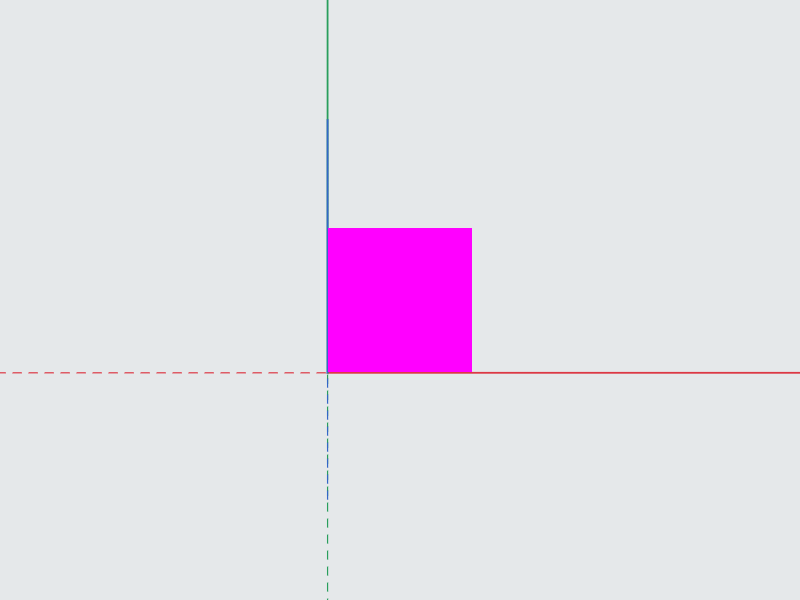
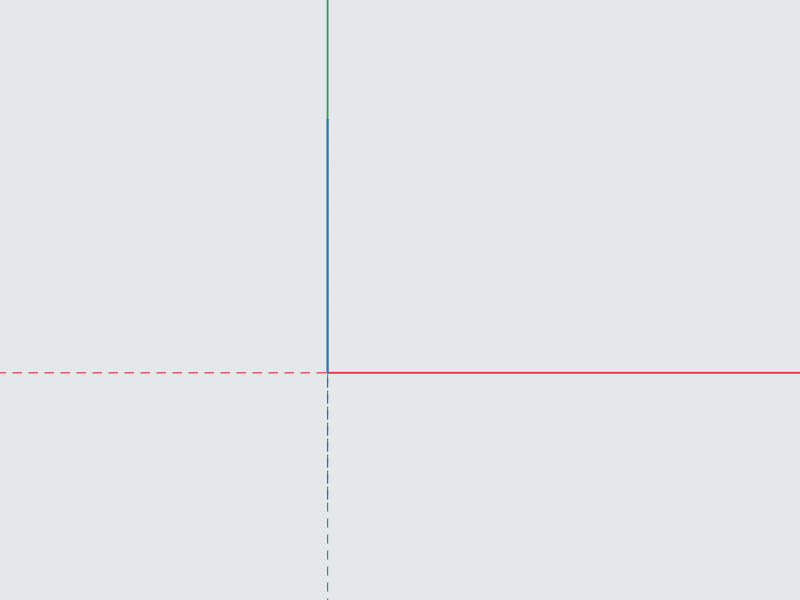
Record integrated original and native section renderer acceptance

Changed region(s): [[0.4062, 0.36, 0.5938, 0.63]]

diff --git a/docs/PARITY_PROGRESS.md b/docs/PARITY_PROGRESS.md
@@ -6,7 +6,7 @@ Initial audit and latest milestone: 2026-10-09 (America/Los_Angeles). Baseline R
 
 The Rust workspace is a substantial implementation, not a parity-complete replacement. **Full feature parity is not verified.** Earlier conversational estimates of 40–60% remaining are superseded by this evidence-based inventory; feature rows have unequal effort and should not be converted into an overall percentage.
 
-Latest published checkout `b01dbcf` passed [cloud CI](https://github.com/supere989/ingetrazo-rust/actions/runs/38013592441), including original-runtime and software-rendered startup gates. The preceding milestone 4 run retained a black startup capture before bounded render readiness was fixed; see [milestone 4 evidence](audits/SWARM_MILESTONE_04.md). Local integration `83165da` passes **296 Rust tests**. Section stencil source, triangulated-hole coverage, modal recovery timers and saved composer camera orientation are integrated. Five independent original/native section screenshot cases match exactly; an expanded coplanar-depth case still fails and remains a release blocker. Fresh original-runtime interior orientation (seven cases), connected sweeps (twenty cases), and isolated native X11 clipboard acceptance pass on their recorded checkouts. The cloud result does not cover these newer local commits. Full interactive, geometry-corpus and platform gates remain open.
+Latest published checkout `b01dbcf` passed [cloud CI](https://github.com/supere989/ingetrazo-rust/actions/runs/38013592441), including original-runtime and software-rendered startup gates. The preceding milestone 4 run retained a black startup capture before bounded render readiness was fixed; see [milestone 4 evidence](audits/SWARM_MILESTONE_04.md). Local integration `e08db95` passes **296 Rust tests**. Section stencil source, triangulated-hole coverage, modal recovery timers and saved composer camera orientation are integrated. Ten independent original/native section screenshot controls now pass after the coplanar-depth correction: Top-view positive counts and zero-fill controls match exactly, while tested Iso coverage differs by 1–1.3% within the explicit 5% tolerance. Broader camera, GPU depth, performance and interactive section acceptance remain open. Fresh original-runtime interior orientation (seven cases), connected sweeps (twenty cases), and isolated native X11 clipboard acceptance pass on their recorded checkouts. The cloud result does not cover these newer local commits. Full interactive, geometry-corpus and platform gates remain open.
 
 See [first swarm milestone](audits/SWARM_MILESTONE_01.md), [current document acceptance](audits/document-semantic-evidence.json), [original runtime reopen](audits/python-reopen-evidence.json), [fresh/edit interpretation](audits/python-edit-evidence.json), [boolean oracle](audits/python-boolean-evidence.json), [Push/Pull oracle](audits/python-pushpull-evidence.json), [rendered screenshot](audits/render-pergola.png), and [145-test log](audits/swarm-milestone-01-tests.txt). Each checker records source provenance. GitHub CI has been added; cloud status is reported separately.
 
@@ -46,7 +46,7 @@ No row is Verified in this current inventory. All rows remain open until their a
 | P16 | P1 | Camera and viewport navigation | Implemented | [gui/viewport.rs](../crates/ingetrazo-gui/src/viewport.rs): Orbit/pan/zoom/projection exist; visible camera now synchronizes with document save/open/new/undo, with regression test. Cursor pivot and all projection workflows remain to verify interactively. | Saved views restored; cursor pivot, zoom extents and perspective modes verified with reference sessions. |
 | P17 | P1 | Walk/position camera/look around | Partial | [gui/menu.rs](../crates/ingetrazo-gui/src/menu.rs): Commands only set status messages. | Actual eye-height navigation modes, input mapping and cancellation match baseline. |
 | P18 | P1 | Visual styles and hidden lines | Implemented | [render/hlr.rs](../crates/ingetrazo-render/src/hlr.rs): Classification and rendering implemented; actual software-rendered textured model startup inspected after fixing textured-vertex panic. Occlusion fidelity and performance remain unverified. | Image comparisons for occlusion, silhouettes, soft edges, nested groups and styles; large-scene timing. |
-| P19 | P1 | Section cuts/fill | Partial | [gui/viewport.rs](../crates/ingetrazo-gui/src/viewport.rs): Local stage 6 render buffers now clip against the active plane with interpolated texture UV/color and unchanged source geometry. Native section state is preserved. Source cut contours now render independently of fill/Wireframe/XRay; closed and hollow cut fills, persisted section-fill RGB with saved-view restoration, pick/snap filtering, atomic controls, nested edit-context plane preservation, and plane selection/Move/Rotate/Delete are locally implemented and tested. Saved section snapshots now clip loose/nested geometry and add cut contours in sheet frames, preserving the live scene. Independent original/rendered acceptance, sheet styling/hidden-line parity and pathological cut topology remain open. Actual original GL stencil captures show zero fills for shared slab and transparent closed cases, unlike the pending geometric-cap approach; the discrepancy remains open and that cap correction is held. | True clipped geometry, closed cut fill and sheet section marks with preservation and tests. |
+| P19 | P1 | Section cuts/fill | Partial | [gui/viewport.rs](../crates/ingetrazo-gui/src/viewport.rs): Local stage 6 render buffers now clip against the active plane with interpolated texture UV/color and unchanged source geometry. Native section state is preserved. Source cut contours now render independently of fill/Wireframe/XRay; closed and hollow cut fills, persisted section-fill RGB with saved-view restoration, pick/snap filtering, atomic controls, nested edit-context plane preservation, and plane selection/Move/Rotate/Delete are locally implemented and tested. Saved section snapshots now clip loose/nested geometry and add cut contours in sheet frames, preserving the live scene. Independent original/rendered acceptance, sheet styling/hidden-line parity and pathological cut topology remain open. Camera-dependent opaque depth/stencil rendering replaces the geometric-cap approach. Ten actual original/native screenshots pass on Top/Iso/Front controls, including shared slab, reversed slab, transparent and coplanar cases; zero-fill controls are exact and positive Iso coverage uses a stated 5% tolerance. Broader rendered gestures, cameras and performance remain open. | True clipped geometry, closed cut fill and sheet section marks with preservation and tests. |
 | P20 | P1 | Solar shadows | Partial | [gui/tray.rs](../crates/ingetrazo-gui/src/tray.rs): Shadow checkbox exists; shadows_enabled has no rendering consumer found. | Date/location sun positioning and visible geometry shadows verified against reference scenes. |
 | P21 | P1 | SKP import | Missing | [formats/lib.rs](../crates/ingetrazo-formats/src/lib.rs): No SKP loader; advertised menu opens generic dialog. | Import baseline-supported eras with groups, instances, textures, annotations, layers and views; no SKP export required by baseline. |
 | P22 | P1 | OBJ/STL/DXF exchange | Implemented | OBJ/STL/DXF visible nested surface export now includes holes, composed/reflected transforms and valid normals. OBJ materials/assets/affine UV and named parts import pass independent probes. DXF LINE/LWPOLYLINE/layers and curved spatial probes pass; block/OCS refuse safely. Units, full entity coverage, MTL options and broader import atomicity remain open. | Original fixture comparisons including transforms, materials, coplanar merging, DXF entity coverage and external reopen. |
@@ -64,7 +64,7 @@ No row is Verified in this current inventory. All rows remain open until their a
 | P34 | P2 | Localization and accessibility | Partial | [core/i18n.rs](../crates/ingetrazo-core/src/i18n.rs): Translation helpers read original assets; no language-wide UI or accessibility acceptance evidence. | Verify language catalogs, shortcuts, numeric locales, keyboard navigation and screen scaling. |
 | P35 | P2 | 3D text/images/axes/advanced placement | Partial | [gui/menu.rs](../crates/ingetrazo-gui/src/menu.rs): 3D Text only reports dialog status; original dedicated image/change_axes/placement tools lack Rust equivalents. | Port actual geometry/image plane and placement workflows; preserve attributes and undo. |
 | P36 | P1 | Packaging/platform integration | Partial | [package.sh](../package.sh): Linux packaging/install scripts exist; no current clean package or Windows/macOS acceptance run. | Clean recursive clone builds and installs on each claimed OS; associations, icons, startup and dependency diagnostics. |
-| P37 | P1 | CI/performance/parity acceptance | Partial | [repository root](../): CI now runs recursive checkout, mandatory fixtures, Rust tests, source/runtime semantic oracles, original regressions and virtual-render smoke. Published milestone 3 cloud CI passed; local stage 4 publication pending. Wider corpus and performance/release acceptance remain open. | CI builds/tests with submodules; baseline regression corpus, semantic document checks, rendered workflows and performance budgets. |
+| P37 | P1 | CI/performance/parity acceptance | Partial | [repository root](../): CI now runs recursive checkout, mandatory fixtures, Rust tests, source/runtime semantic oracles, original regressions and virtual-render smoke. Published milestone 4 cloud CI passed; newer integrated changes await their own cloud result. Wider corpus and performance/release acceptance remain open. | CI builds/tests with submodules; baseline regression corpus, semantic document checks, rendered workflows and performance budgets. |
 
 Inventory: **10 Implemented**, **4 Missing**, **23 Partial**. **0 Verified**. These are status counts, not effort percentages.
 

diff --git a/.orchestration/PORT_COMPLETION.md b/.orchestration/PORT_COMPLETION.md
@@ -97,3 +97,5 @@ Section sourcecontours9a3ef60 integrated with288 workspacePASS; sourcehiddenlaye
 GeoPathb1b3815+CIccb6aba andindependentCtrl0773cb0 integrated; combined291workspacePASS, sixoriginalGeoPath+negativecontrolsPASS, independentCtrl success/correctionchecksPASS. CorrectedGLreverseb8a073c usesauthoritativeface.loop, capnow20164; earliercopiedverticesreversewasno-opretainedcorrection. Stencila172/c036queuedreview+independentrender.
 
 Oversight integration 83165da: stencil98cff13+3126be8+f5d21fb, modal recoveryf8c3cb7, source hole coverage5ba8a45+21f003d and composer camera83165da reviewed/integrated. Combined296 workspace tests PASS (/tmp/oversee-coverage-tests.log). Independent five original/native section screenshots match; expanded coplanar source0/native20736 fails, correction pending before mandatoryCI integration. DAE isolated5d5ee4a rebuilt with georef and hole fixes, independent four-case rerun pending. No Verified promotion; goal remains active.
+
+Expanded section correctionb62808e and10case mandatoryCI gates8aa20a8+e08db95 integrated. Canonical workspace296PASS; fresh originalGL/native productioneframe10screensPASS (/tmp/oversee-original-gl.log,/tmp/oversee-native-section.log). Toppositivecounts20164exact, allzerocontrolsexact, Isodifferences1.02–1.26%withinexplicit5%tolerance. Historicalcoplanarfailure retained. Composer60e18ff focused3PASS; strictsimplify13+3negativecontrols refreshed9bb7996. Publishreviewedcheckpoint next, fullreleaseopen.

diff --git a/README.md b/README.md
@@ -114,5 +114,5 @@ To install IngeTrazo into your local user applications menu with `.igz` desktop 
 
 See the [parity progress tracker](docs/PARITY_PROGRESS.md) for the audited inventory, open gaps, release gates and reproducible evidence.
 
-The fourth reviewed swarm milestone passes 232 Rust tests and adds original-runtime saved-view recall, live dimension anchors, nested world measurement and outliner checks. glTF/GLB imports and corrected Y-up exports pass independent probes; face intersection and healing have original geometry comparisons. Four original engineering documents retain field/asset preservation and Python reopening. Full interactive and feature parity remains open; see the tracker for acceptance boundaries and current gaps.
+The latest local reviewed integration passes 296 Rust tests and adds original-runtime saved-view recall, live dimension anchors, nested world measurement and outliner checks. glTF/GLB imports and corrected Y-up exports pass independent probes; face intersection and healing have original geometry comparisons. Four original engineering documents retain field/asset preservation and Python reopening. Full interactive and feature parity remains open; see the tracker for acceptance boundaries and current gaps.
 
